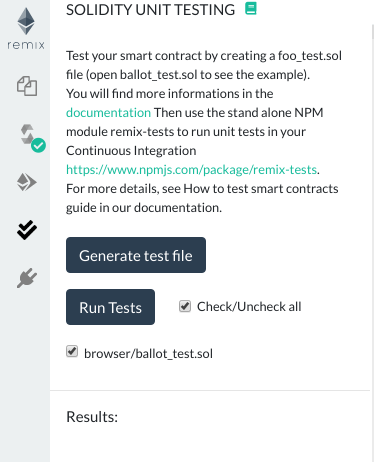
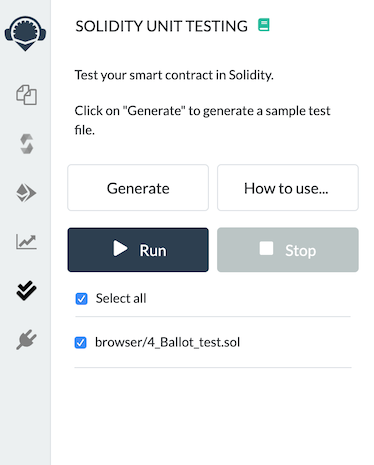
unit testing docs updated

diff --git a/docs/unittesting.md b/docs/unittesting.md
@@ -3,7 +3,7 @@ Unit Testing Plugin
 
 Click the
 ![double check](images/a-user-testing-icon.png)
- icon to get to the "Solidity Unit Testing" plugin. 
+ icon to get to the `Solidity Unit Testing` plugin. 
  
  If you haven't used this plugin before and are not seeing `double check` icon, you have to activate it from Remix plugin manager.
  
@@ -13,11 +13,13 @@ Go to the plugin manager (by click the ![plug](images/a-plug.png) icon) and load
 
 Now `double check` icon will appear on the left side icon bar. Clicking on icon will load the unit testing module in the side panel.
 
+Alternatively, just select `Solidity` environment from remix IDE home page. This will activate `Solidity Unit Testing` plugin along with `Solidity Compiler`, `Deploy & Run Transactions` & `Solidity Static Analysis` plugins.
+
 ![](images/a-unit-testing-feature.png)
 
-Generate Test File
-------------------
-Click the button `Generate test file` to create a new solidity file in the current folder suffixed with `_test`. This file contains the minimum you need for running unit testing.
+Generate
+----------
+Select a solidity file which you want to test and click on the button `Generate`. It will generate a new sample solidity test file **in the current folder** suffixed with `_test`. This file contains the minimum you need for running unit testing.
 
 Write Tests
 -----------
@@ -32,12 +34,15 @@ Apart from this, Remix allows usage of some special functions to make testing mo
 
 To get started, see [this simple example](./unittesting_examples.html#simple-example).
 
-Run Tests
-------------------
-
-Click the button "Run tests" to executes all tests whose box has been checked below (by default all). The execution is run in a separate environment and the result is displayed below.
+Run
+-----
+Once you are done with writing tests, select the right file(s) and click on the button `Run` to execute the tests in the selected files. The execution will run in a separate environment and the result will be displayed below.
 
 ![](images/a-unit-testing-run-result.png)
+
+Stop
+-----
+If you have selected multiple files to run the tests and want to stop the execution, click on `Stop` button. It will stop execution after running the tests for current file.
 
 Customization
 ------------------
